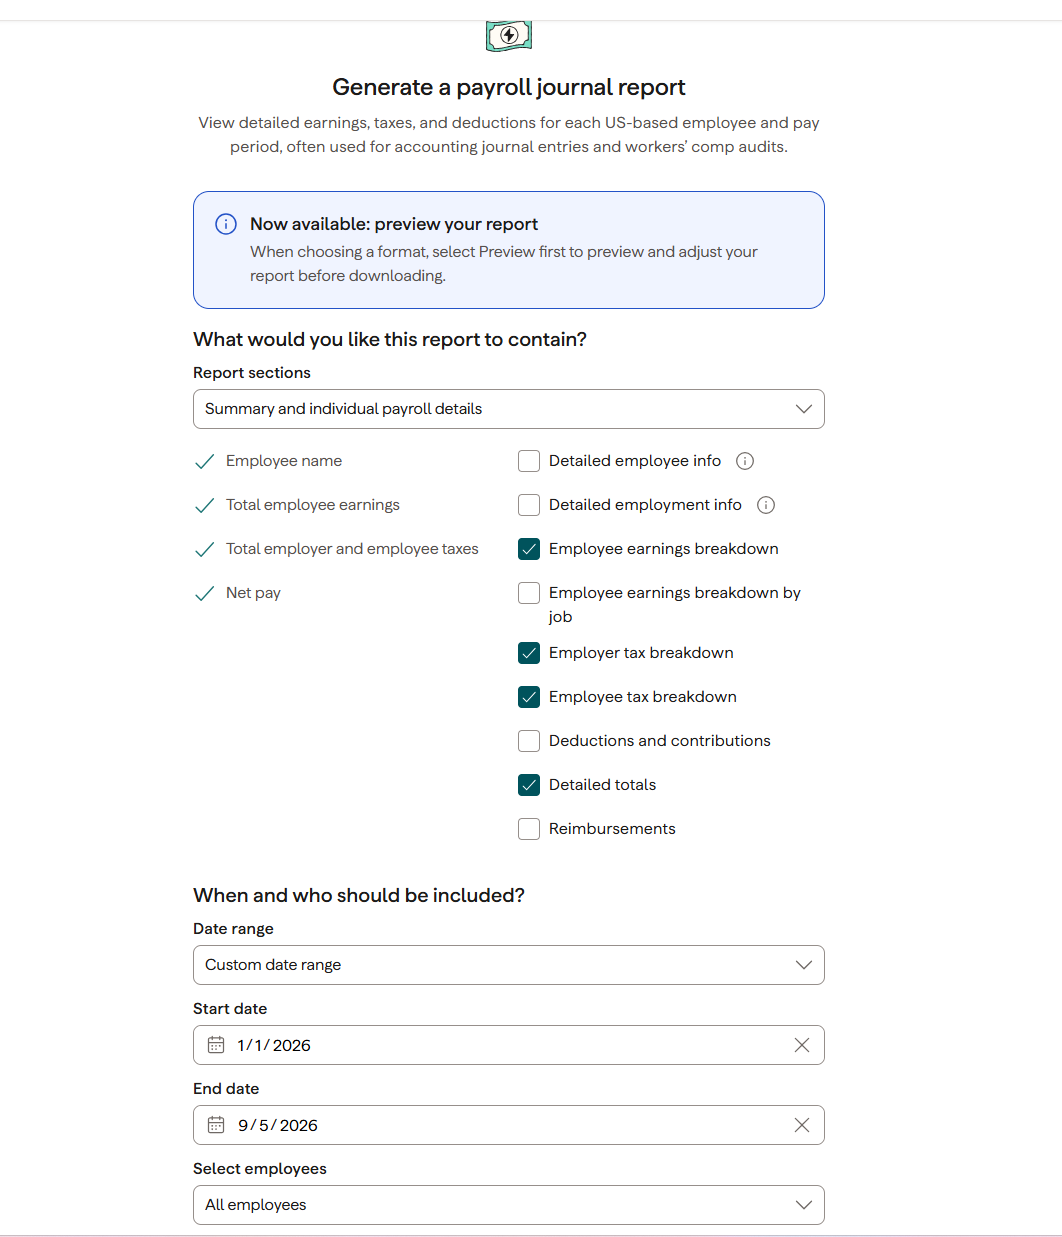
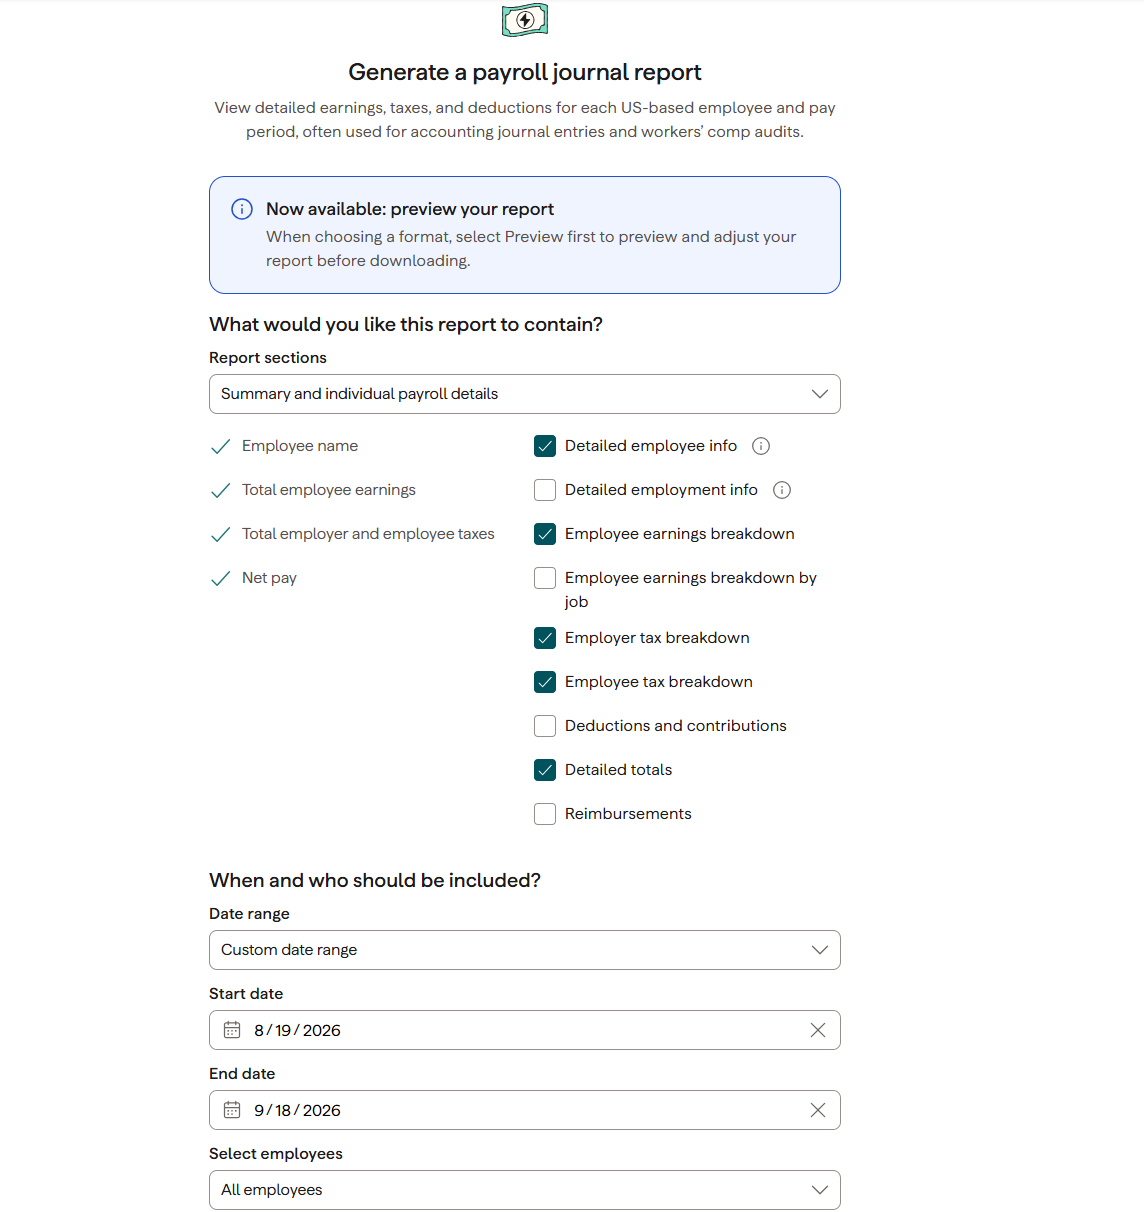
fix gusto ingestion

diff --git a/clinic_dash_pro/templates/clinic_dash_pro/list_view.html b/clinic_dash_pro/templates/clinic_dash_pro/list_view.html
@@ -108,6 +108,7 @@
         font-size: 0.75rem;
     }
 
+    /* Sticky header */
     thead th {
         position: sticky;
         top: 0;
@@ -118,6 +119,26 @@
         font-weight: 600;
         color: #005a9e;
         z-index: 10;
+
+        /* Light vertical column divider */
+        border-right: 1px solid #d0d0d0;
+    }
+
+    thead th:last-child {
+        border-right: none;
+    }
+
+    /* Sort icons */
+    .sort-icon {
+        font-size: 12px;
+        margin-left: 4px;
+        color: #0078D4;
+    }
+
+    /* Column hover highlight */
+    thead th:hover {
+        background-color: #d9ecff;
+        cursor: pointer;
     }
 
     thead th a {
@@ -130,18 +151,33 @@
         text-decoration: underline;
     }
 
+    /* Body cells */
     tbody td {
         padding: 8px 10px;
         border-bottom: 1px solid #ddd;
-        text-align: left;
+        border-right: 1px solid #e3e3e3;
+        text-align: center;
     }
 
+    tbody td:last-child {
+        border-right: none;
+    }
+
+    /* Alternating rows */
     tbody tr:nth-child(even) {
         background-color: #f7f7f7;
     }
 
+    /* Hover highlight */
     tbody tr:hover {
         background-color: #e9f3ff;
+    }
+
+    /* Total row */
+    .total-row {
+        background-color: #e6f2ff;
+        font-weight: 600;
+        text-align: center;
     }
 
     /* Pagination */
@@ -208,10 +244,10 @@
             {% for field in fields %}
                 <th>
                     <a href="?sort={{ field }}{% if q %}&q={{ q }}{% endif %}">
-                        {{ field }}
+                        {{ field }} <span class="sort-icon">▲</span>
                     </a>
                     <a href="?sort=-{{ field }}{% if q %}&q={{ q }}{% endif %}">
-                        ↓
+                        <span class="sort-icon">▼</span>
                     </a>
                 </th>
             {% endfor %}
@@ -226,6 +262,13 @@
                 {% endfor %}
             </tr>
         {% endfor %}
+
+        <!-- TOTAL ROW -->
+        <tr class="total-row">
+            <td colspan="{{ fields|length }}">
+                Total Records: {{ items.paginator.count }}
+            </td>
+        </tr>
     </tbody>
 </table>
 

diff --git a/clinic_dash_pro/ingestion/database.py b/clinic_dash_pro/ingestion/database.py
@@ -1,5 +1,6 @@
 # database.py
 
+import pandas as pd
 from clinic_dash_pro.models import JaneProcessedClaim
 from clinic_dash_pro.models import GustoPayroll, XeroTransaction, JaneSessions, JaneProcessedClaim
 
@@ -52,6 +53,10 @@ def load_gusto_to_db(gusto_df):
             skipped += 1
             continue
 
+        # FIX: convert NaN → None
+        row_dict = {k: (None if pd.isna(v) else v)
+                    for k, v in row_dict.items()}
+
         # ---------------------------------------------------------
         # Insert new payroll row
         # ---------------------------------------------------------
@@ -62,30 +67,32 @@ def load_gusto_to_db(gusto_df):
             payroll_period=row_dict.get("Payroll Period"),
             department=row_dict.get("Department"),
 
-            regular_hours=row_dict.get("Regular Hours"),
-            regular_amount=row_dict.get("Regular Amount"),
-            regular_rate=row_dict.get("Regular Rate"),
+            regular_hours=row_dict.get("Regular (Hours)"),
+            regular_amount=row_dict.get("Regular (Amount)"),
+            regular_rate=row_dict.get("Regular (Rate)"),
 
-            time_off_hours=row_dict.get("Time Off Hours"),
-            time_off_amount=row_dict.get("Time Off Amount"),
-            time_off_rate=row_dict.get("Time Off Rate"),
+            time_off_hours=row_dict.get("Time Off (Hours)"),
+            time_off_amount=row_dict.get("Time Off (Amount)"),
+            time_off_rate=row_dict.get("Time Off (Rate)"),
 
             additional_earnings=row_dict.get("Additional Earnings"),
             gross_earnings=row_dict.get("Gross Earnings"),
 
             employee_taxes=row_dict.get("Employee Taxes"),
             federal_income_tax_employee=row_dict.get(
-                "Federal Income Tax Employee"),
-            social_security_employee=row_dict.get("Social Security Employee"),
-            medicare_employee=row_dict.get("Medicare Employee"),
+                "Federal Income Tax (Employee)"),
+            social_security_employee=row_dict.get(
+                "Social Security (Employee)"),
+            medicare_employee=row_dict.get("Medicare (Employee)"),
             additional_medicare_employee=row_dict.get(
-                "Additional Medicare Employee"),
+                "Additional Medicare (Employee)"),
 
             employer_taxes=row_dict.get("Employer Taxes"),
-            social_security_employer=row_dict.get("Social Security Employer"),
-            medicare_employer=row_dict.get("Medicare Employer"),
-            tx_suta_employer=row_dict.get("TX SUTA Employer"),
-            futa_employer=row_dict.get("FUTA Employer"),
+            social_security_employer=row_dict.get(
+                "Social Security (Employer)"),
+            medicare_employer=row_dict.get("Medicare (Employer)"),
+            tx_suta_employer=row_dict.get("TX SUTA (Employer)"),
+            futa_employer=row_dict.get("FUTA (Employer)"),
 
             net_pay=row_dict.get("Net Pay"),
             reimbursements=row_dict.get("Reimbursements"),

diff --git a/clinic_dash_pro/views.py b/clinic_dash_pro/views.py
@@ -278,11 +278,36 @@ def jane_processed_claims_upload_success(request):
 
 @login_required
 def gusto_list(request):
+
+    REMOVE_FIELDS = [
+        "time_off_hours",
+        "time_off_amount",
+        "time_off_rate",
+        "employee_type",
+        "payment",
+        "additional_earnings",
+        "federal_income_tax_employee",
+        "social_security_employee",
+        "medicare_employee",
+        "additional_medicare_employee",
+        "social_security_employer",
+        "medicare_employer",
+        "tx_suta_employer",
+        "futa_employer",
+        "reimbursements",
+        "donations",
+        "check_amount",
+        "insert_date",
+        "hash_key",
+        "id",
+    ]
+
     return generic_list_view(
         request,
         GustoPayroll,
         "Gusto Payroll Records",
-        "payroll_period_start"
+        "payroll_period_start",
+        remove_fields=REMOVE_FIELDS
     )
 
 
@@ -317,14 +342,20 @@ def jane_claims_list(request):
 
 
 @login_required
-def generic_list_view(request, model, title, date_field):
+def generic_list_view(request, model, title, date_field, remove_fields=None):
+
     # Filtering
     q = request.GET.get("q", "").strip()
 
     queryset = model.objects.all()
 
-    # Get all fields dynamically
-    EXCLUDE_FIELDS = ("id", "hash_key", "insert_date")
+    # Fields
+    EXCLUDE_DEFAULT = ("id", "hash_key", "insert_date")
+
+    if remove_fields:
+        EXCLUDE_FIELDS = set(EXCLUDE_DEFAULT) | set(remove_fields)
+    else:
+        EXCLUDE_FIELDS = EXCLUDE_DEFAULT
 
     fields = [
         f.name for f in model._meta.get_fields()

diff --git a/clinic_dash_pro/ingestion/gusto.py b/clinic_dash_pro/ingestion/gusto.py
@@ -207,6 +207,7 @@ def gusto_ingest(uploaded_file):
     # ---------------------------------------------------------
     # Step 6: Load cleaned payroll into DB
     # ---------------------------------------------------------
+
     inserted, skipped = load_gusto_to_db(payroll_df)
 
     # Return counts to Django view
